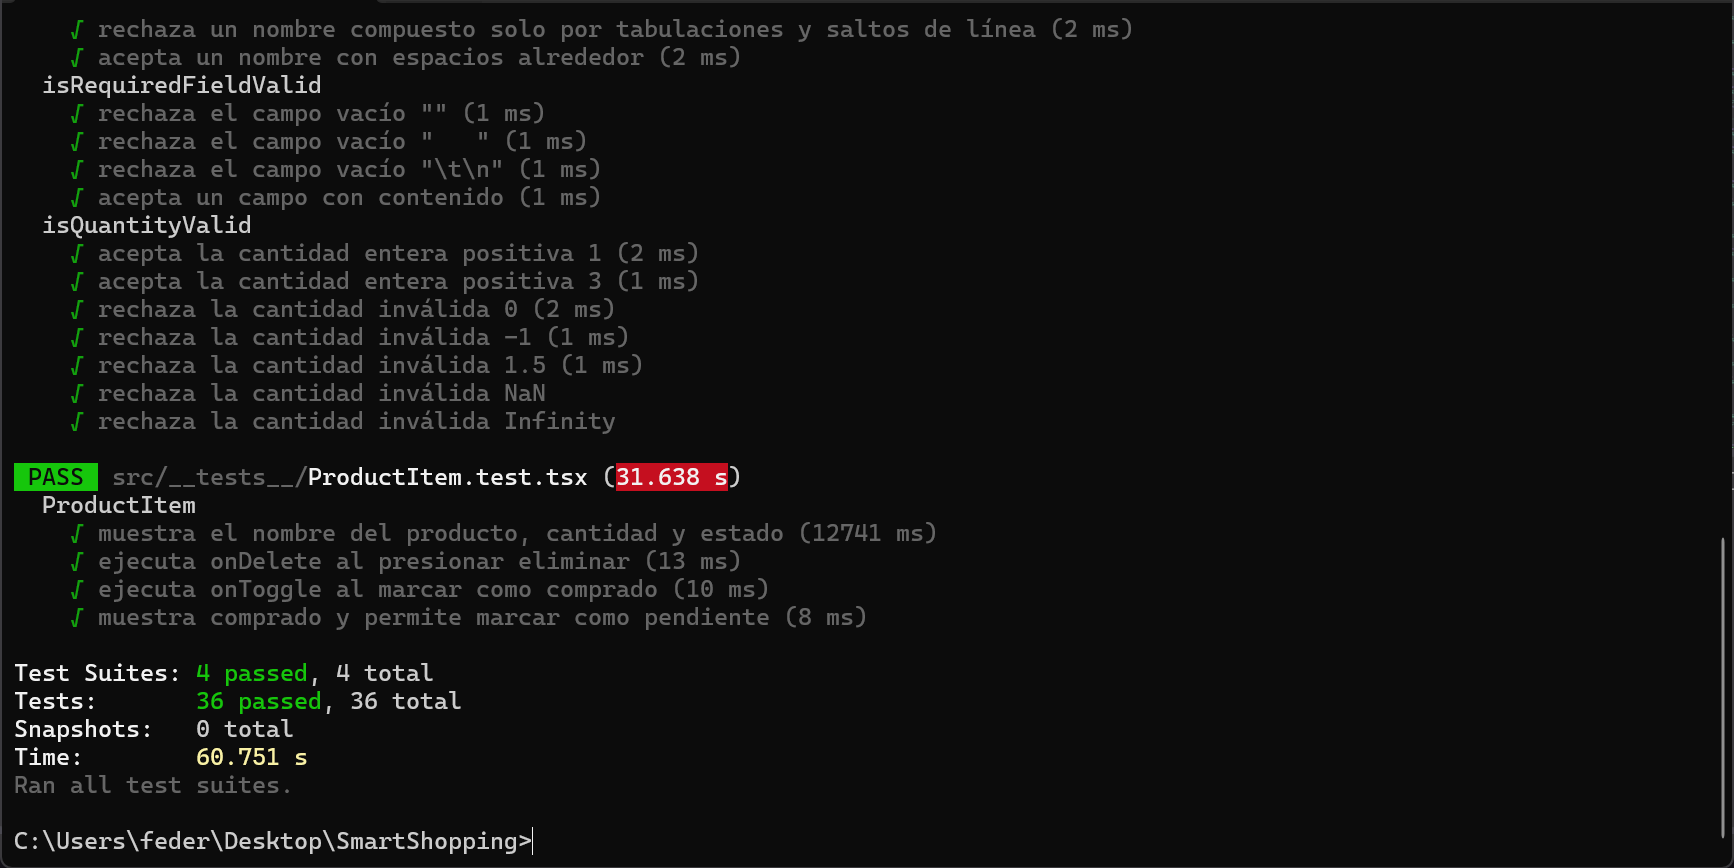
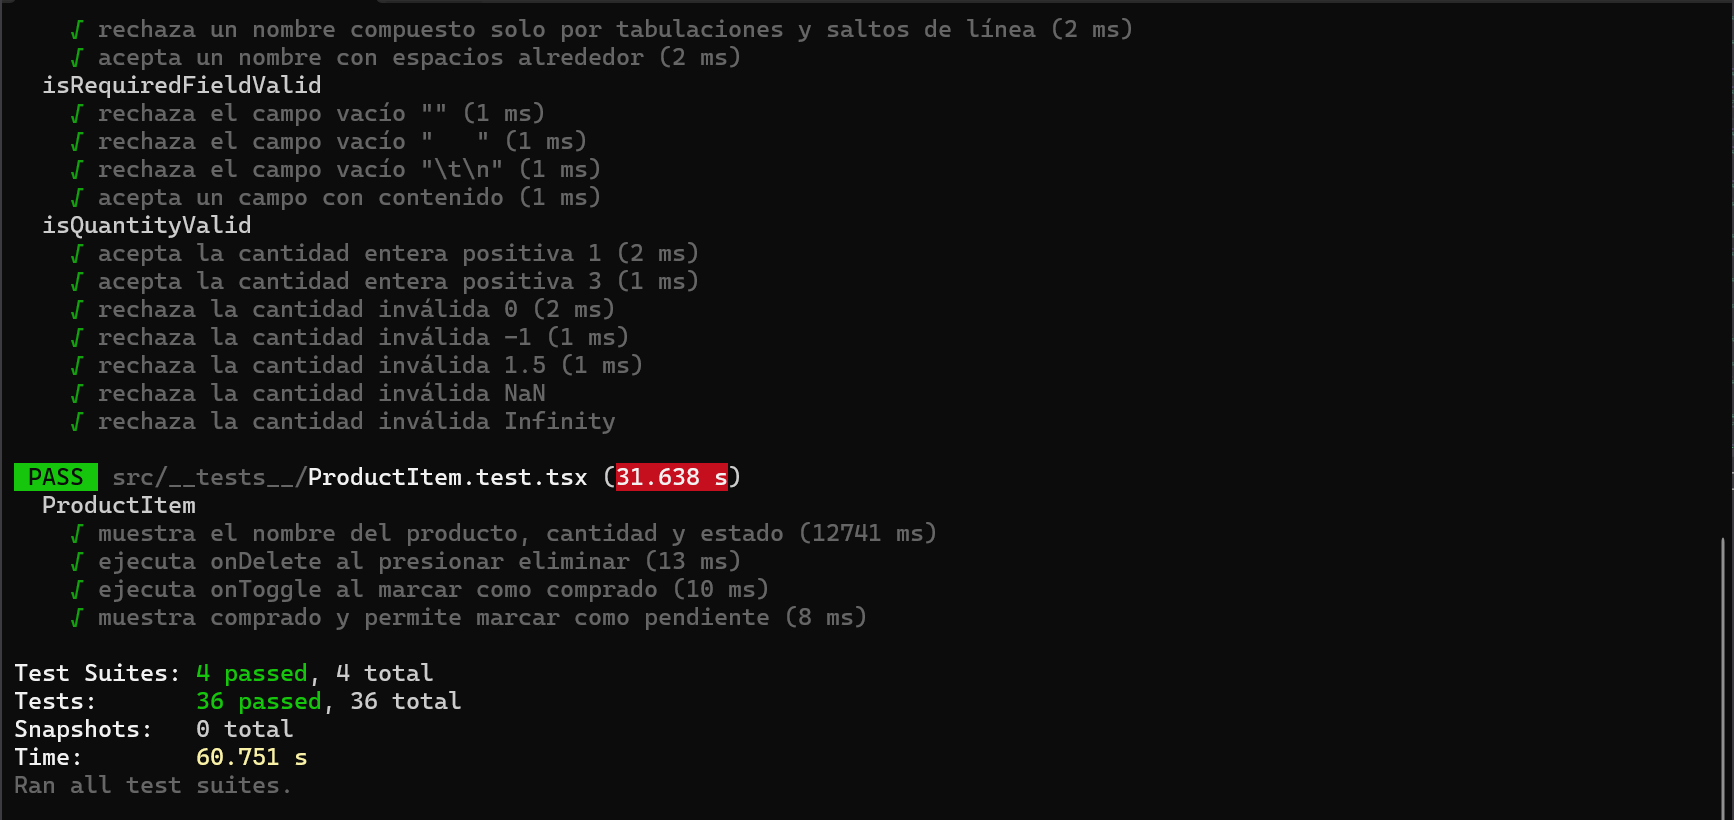
docs: preparar entrega del parcial 2

diff --git a/README.md b/README.md
@@ -1,83 +1,84 @@
 # SmartShopping
 
-Proyecto del Parcial 1 de Aplicaciones Móviles.
+Aplicación realizada en un entorno académico de lista de compras para Aplicaciones Móviles. El proyecto conserva las funcionalidades del Parcial 1 e incorpora recursos del dispositivo y una organización de lista y detalle para el Parcial 2.
 
-**Opción elegida:** Lista de compras inteligente.
+## Requisitos
 
-## Tecnologías
+- Node.js 22.13 o superior y npm.
+- Expo SDK 57, configurado en `package.json` y `app.json`.
+- Para ejecutar en Android con Expo Go: Expo Go compatible con SDK 57.
+- Para probar la creación real de eventos de calendario: Android o iOS con un development build. `expo-calendar` no está disponible en Expo Go para SDK 57.
 
-React Native + Expo SDK 57 + TypeScript, React Navigation Native Stack,
-AsyncStorage y expo-notifications. Tests con Jest, jest-expo y React Native
-Testing Library.
+## Instalación y ejecución
 
-## Instalación
+Desde la raíz del repositorio:
 
-Requisitos: Node.js 22.13 o superior, npm y Expo Go compatible con SDK 57
-en el dispositivo Android.
-
-Desde la carpeta del proyecto:
-
-```bash
-npm ci
+```powershell
+npm.cmd ci
+npm.cmd start
 ```
 
-## Ejecución
+En Windows también se pueden usar `npm.cmd` y `npx.cmd` si PowerShell bloquea los scripts `npm` o `npx`. En macOS/Linux, usar `npm ci` y `npm start`.
 
-```bash
-npm start
+Para Android o iOS, abrir el proyecto con Expo Go y escanear el QR cuando la función que se quiere probar esté soportada por Expo Go. Para web:
+
+```powershell
+npm.cmd run web
 ```
 
-Abrir el proyecto escaneando el QR desde Expo Go. La computadora y el
-dispositivo deben estar conectados a la misma red.
+La cámara, galería, ubicación y contactos usan los módulos Expo correspondientes y sus permisos/selecciones nativos. En web hay limitaciones propias del navegador y no se simulan recursos nativos que no están disponibles.
 
-En PowerShell, si la política de ejecución bloquea npm o npx, usar
-`npm.cmd` y `npx.cmd` en lugar de `npm` y `npx`.
+### Calendario y estado de validación
+
+El código integra `expo-calendar`, un selector de fecha/hora y el vínculo del ID del evento con el producto. Sin embargo, **la creación real, los permisos y la aparición del evento en la agenda todavía no fueron validados en un dispositivo con development build**. Expo Go SDK 57 no sirve para comprobar esta función.
+
+El evento vinculado permanece en la agenda, incluso si se elimina el producto.
 
 ## Funcionalidades
 
-- Registro local con usuario, contraseña y confirmación.
-- Login y acceso al flujo autenticado mediante Native Stack.
-- Recuperación de la sesión al iniciar y cierre de sesión.
-- Alta de productos con nombre y cantidad entera mínima de 1.
-- Listado, marcado como comprado/pendiente y eliminación.
+### Parcial 1
+
+- Registro y login locales, recuperación de sesión y cierre de sesión.
+- Alta de productos con nombre y cantidad, lista, marcado como comprado/pendiente y eliminación confirmada.
+- Recordatorio local de compra a los 10 segundos para productos pendientes.
 - Persistencia local de usuario, sesión y productos.
-- Recordatorio local único a los 10 segundos para una lista con pendientes.
 
-Se guarda un único usuario local; un nuevo registro reemplaza al anterior.
-Cerrar sesión conserva el usuario y los productos. La autenticación es
-académica: las credenciales se almacenan sin cifrado en AsyncStorage.
+La autenticación es académica: se guarda un único usuario y un nuevo registro lo reemplaza. Las contraseñas se almacenan sin cifrar en AsyncStorage; no usar credenciales reales.
 
-Para probar el recordatorio en Android, iniciar sesión, agregar un producto
-pendiente, presionar **Recordarme comprar**, permitir las notificaciones si
-se solicita y esperar aproximadamente 10 segundos. Comprobar el aviso y
-la bandeja de notificaciones, primero con la app abierta y luego en segundo
-plano. La visualización debe verificarse en el dispositivo; Jest no la valida.
+### Parcial 2
 
-## Tests y validaciones
+- Lista compacta y pantalla de detalle del producto; la eliminación pide confirmación.
+- Cámara y galería para asociar una fotografía. En Android, las imágenes se guardan en el directorio privado de la app; en web se guardan como Blob en IndexedDB. Las referencias de imagen se conservan con el producto. No hay sincronización entre dispositivos.
+- Ubicación del comercio en primer plano mediante GPS, asociada como latitud/longitud. No hay seguimiento en segundo plano; la precisión depende del dispositivo y del permiso.
+- Selección de proveedor desde contactos. Se guarda una copia local del nombre y, si está disponible, el primer teléfono o email. No se guarda la agenda completa ni se modifica el contacto.
+- Recordatorio de calendario por producto, con fecha/hora y metadatos del evento.
 
-```bash
-npm test
+
+## Estado global y persistencia
+
+Zustand mantiene el estado global de productos con un store creado mediante `create`; no requiere un Provider envolviendo la navegación. Las pantallas consumen datos y acciones mediante selectores del store; las acciones `load`, `add`, `update`, `toggle` y `remove` centralizan las operaciones. `load` recupera AsyncStorage y las operaciones guardan el resultado por medio de `src/storage/productStorage.ts`, que valida los campos opcionales para foto, ubicación, proveedor y evento. La autenticación conserva su almacenamiento separado en `src/storage/authStorage.ts`.
+
+Las fotos web se guardan en IndexedDB y no como Base64 en AsyncStorage. Todo el almacenamiento es local al dispositivo o al origen web; no existe sincronización remota.
+
+## Pruebas y validaciones
+
+Ejecutar en Windows:
+
+```powershell
+npm.cmd test -- --runInBand --no-cache
+npx.cmd tsc --noEmit
 ```
 
-Ejecución completa sin caché:
+La última ejecución de esta preparación, el 23 de noviembre de 2026, terminó con **17 suites y 120 tests aprobados**; TypeScript finalizó sin errores. Expo Doctor no se ejecutó: no está instalado en el proyecto y se evitó que `npx` descargara herramientas. Jest usa mocks para recursos nativos; esos tests no prueban permisos reales, GPS físico, selectores del sistema ni creación de eventos en un calendario real.
 
-```bash
-npm test -- --runInBand --no-cache
-npx tsc --noEmit
-npx expo-doctor
-```
+Las capturas `docs/images/test1.png` y `docs/images/test2.png` son evidencia histórica del Parcial 1 (4 suites/36 tests), no de la ejecución actual ni de las funciones nativas del Parcial 2.
 
-Los tests cubren validaciones, ProductItem y persistencia de autenticación
-y productos.
+Pruebas manuales pendientes: permisos concedidos/denegados/bloqueados; cámara y galería reales; GPS con servicios activos/desactivados; selección/cancelación de contactos; reinicio y persistencia; recordatorio de 10 segundos; calendario en un development build con evento visible en la agenda; y recorrido web de las alternativas y limitaciones.
 
-## Resultados de las pruebas
+## Video de demostración
 
-Las 4 suites y los 36 tests finalizaron correctamente en la ejecución mostrada.
+[Ver video de demostración de SmartShopping](https://youtube.com/shorts/PvFGukGxLLQ?feature=share)
 
-![Resultados de autenticación, persistencia y validación](docs/images/test1.png)
+## Documentación de IA
 
-![Resultados de componentes y resumen de las pruebas](docs/images/test2.png)
-
-## Video demo
-
-[Ver video de demostración de SmartShopping](https://youtube.com/shorts/98tTcGc9NVs?feature=share)
+La mejora de lista y detalle se documenta en [`docs/ia-mejora-ux-lista-detalle.md`](docs/ia-mejora-ux-lista-detalle.md), con el prompt aportado, los cambios descritos y los ajustes humanos registrados. La documentación no atribuye resultados visuales ni detalles de herramienta/modelo que no estén respaldados por evidencia.

diff --git a/docs/ia-mejora-ux-lista-detalle.md b/docs/ia-mejora-ux-lista-detalle.md
@@ -1,0 +1,88 @@
+# Mejora UX: lista compacta y detalle de producto
+
+## Prompt real utilizado
+
+Prompt recibido del usuario en esta conversación, copiado sin reconstruirlo:
+
+> Quiero implementar la primera mejora UX/UI de SmartShopping, tomando como referencia la auditoría UX y la Unidad 11 de IA en Desarrollo de Interfaces.\
+> \
+> OBJETIVO: simplificar la lista y organizar las funciones avanzadas en pantalla de detalle.\
+> \
+> LISTA PRINCIPAL:\
+> - Nombre, cantidad, estado y acción rápida comprado.\
+> - Miniatura cuando exista.\
+> - Indicadores discretos de ubicación, proveedor y calendario.\
+> - Abrir detalle tocando el producto.\
+> - Mantener eliminación accesible sin sobrecarga.\
+> \
+> DETALLE:\
+> - Nueva pantalla accesible desde la lista.\
+> - Secciones: foto, comercio/GPS, proveedor y calendario.\
+> - Reutilizar componentes y servicios.\
+> - Mantener estados de carga, error y éxito.\
+> \
+> PREVENCIÓN DE ERRORES:\
+> - Confirmar eliminación.\
+> - Advertir que el evento del calendario seguirá en la agenda.\
+> - Nunca eliminar/modificar eventos externos automáticamente.\
+> \
+> ACCESIBILIDAD:\
+> - Corregir contraste insuficiente.\
+> - Mantener identidad visual.\
+> - Etiquetas accesibles y áreas táctiles adecuadas.\
+> \
+> COMPATIBILIDAD:\
+> - Conservar Expo SDK 57, Zustand, AsyncStorage, web y funciones existentes.\
+> - No alterar autenticación ni recordatorio de 10 segundos.\
+> \
+> TESTING:\
+> - Mantener 112 tests anteriores.\
+> - Agregar tests lista-detalle, confirmación, productos con/sin adjuntos, acciones avanzadas y accesibilidad básica.\
+> - Ejecutar npm.cmd test -- --runInBand --no-cache y npx.cmd tsc --noEmit.\
+> - Verificar exports web/Android cuando sea posible.\
+> \
+> DOCUMENTACIÓN IA:\
+> - Guardar prompt real, archivos cambiados, problema UX, solución, ajustes y comparación antes/después.\
+> - No inventar resultados.\
+> \
+> RESTRICCIONES:\
+> - No actualizar dependencias innecesarias, no npm audit fix, no commit/push, no cambiar seguridad ni eliminar funciones.\
+> - Informar resultados, riesgos y pruebas manuales. Detenerse al finalizar.
+
+## Problema UX
+
+Antes, cada tarjeta mostraba nombre, cantidad, estado, acciones para marcar comprado o eliminar y el control completo del recordatorio de calendario. La foto, la ubicación y el proveedor no se mostraban como controles dentro de la tarjeta. El selector de fecha/hora y el recordatorio en línea aumentaban su altura y mezclaban una acción avanzada con las acciones frecuentes. El color blanco sobre el botón rosa `#D86BA3` tenía contraste calculado aproximado de 3,21:1.
+
+## Solución implementada
+
+- Tarjeta compacta con nombre, cantidad, estado, miniatura e indicadores de datos asociados.
+- Tocar el bloque de producto abre una pantalla de detalle con secciones de foto, comercio/GPS, proveedor y calendario, reutilizando los componentes existentes.
+- Marcar comprado sigue siendo una acción rápida.
+- Eliminar sigue a mano, pero requiere confirmación. Si hay un evento vinculado, el diálogo aclara que permanece en el calendario. La app no actualiza ni borra eventos externos al eliminar el producto.
+- Botones principales usan `#A84275` con texto blanco; el contraste calculado es superior a 4,5:1 y conserva la familia rosa de la identidad visual.
+- Se agregaron labels, hints y estados accesibles a las acciones de la tarjeta y el diálogo.
+
+## Ajustes de revisión humana
+
+- Se mantuvo fuera de la tarjeta la configuración de fecha/hora y las acciones avanzadas.
+- El diálogo de eliminación distingue productos con evento de los que no tienen evento.
+- La eliminación de fotos asociadas continúa limpiando solo el archivo local propio de la app. El evento de calendario sigue intacto.
+- No se alteraron la lógica de autenticación, el formato persistido ni los servicios de almacenamiento, permisos, dependencias o el recordatorio de 10 segundos. La lista pasó a consumir las acciones Zustand existentes.
+
+## Antes / después
+
+| Antes | Después |
+|---|---|
+| Tarjeta con acciones de compra/eliminación y controles de calendario en línea | Resumen compacto; controles avanzados agrupados en detalle |
+| Eliminar quitaba directamente el producto | Confirmación con aviso explícito para eventos asociados |
+| Botón rosa con contraste insuficiente para texto normal | Rosa más oscuro, contraste calculado > 4,5:1 |
+
+## Archivos del cambio
+
+- Navegación: `src/navigation/types.ts`, `src/navigation/AppNavigator.tsx`.
+- Lista, miniatura y detalle: `src/components/ProductItem.tsx`, `src/components/ProductPhotoPreview.tsx`, `src/screens/ProductDetailScreen.tsx`, `src/screens/HomeScreen.tsx`.
+- Confirmación: `src/components/ConfirmProductDelete.tsx`.
+- Contraste de botones: `src/screens/LoginScreen.tsx`, `src/screens/RegisterScreen.tsx`, `src/screens/AddProductScreen.tsx`, `src/screens/HomeScreen.tsx`.
+- Tests: `src/__tests__/ProductItem.test.tsx`, `src/__tests__/ConfirmProductDelete.test.tsx`, `src/__tests__/ProductDetailScreen.test.tsx`.
+
+La revisión UX y el código final deben contrastarse con capturas reales en Android/web; esta documentación no afirma una prueba visual que no se haya ejecutado.
